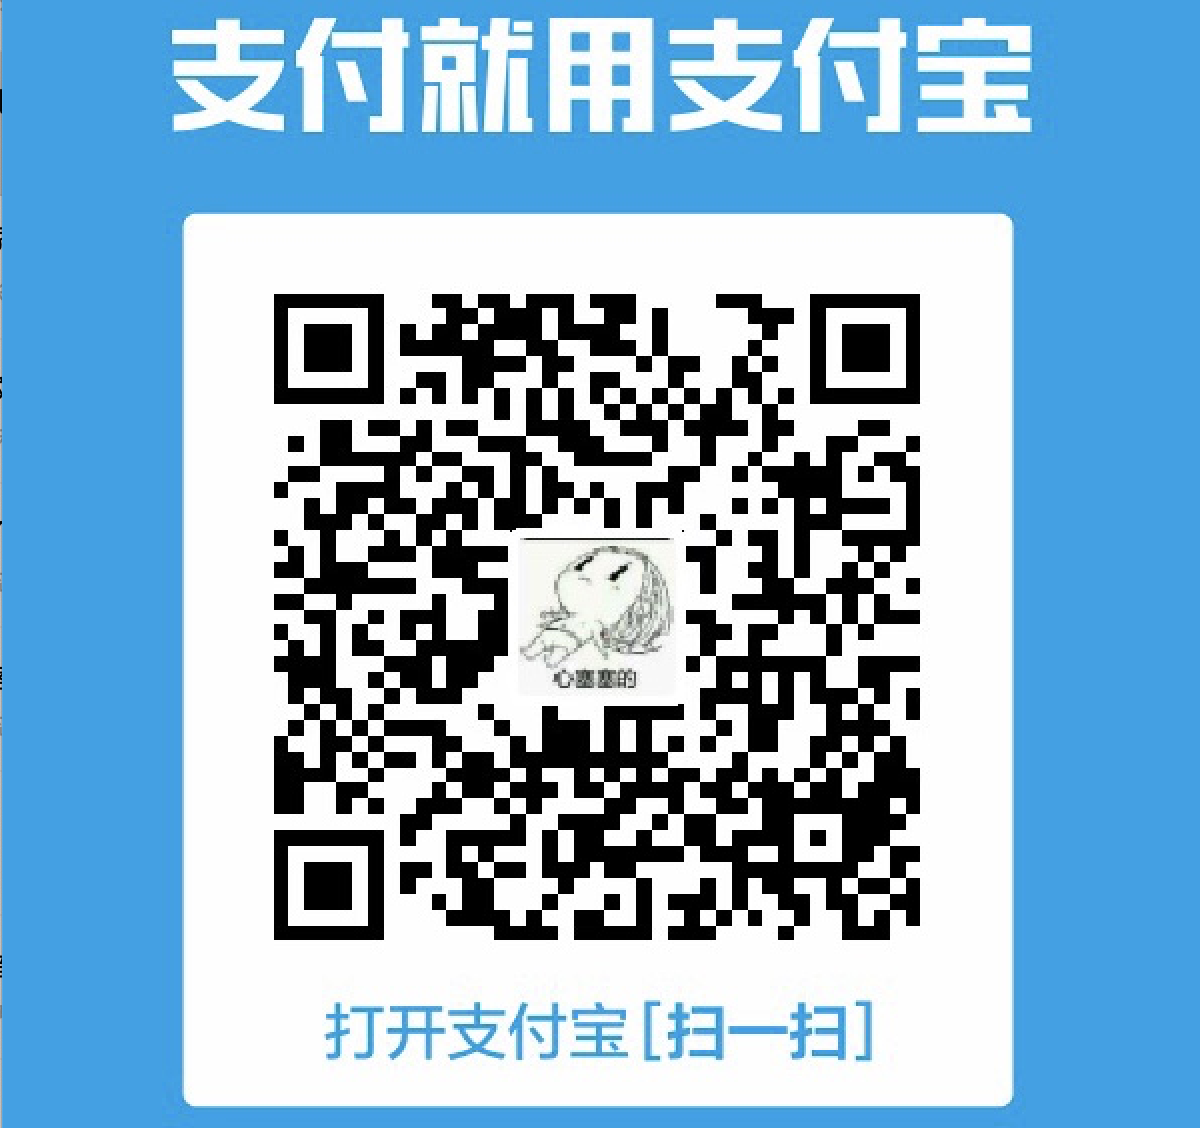
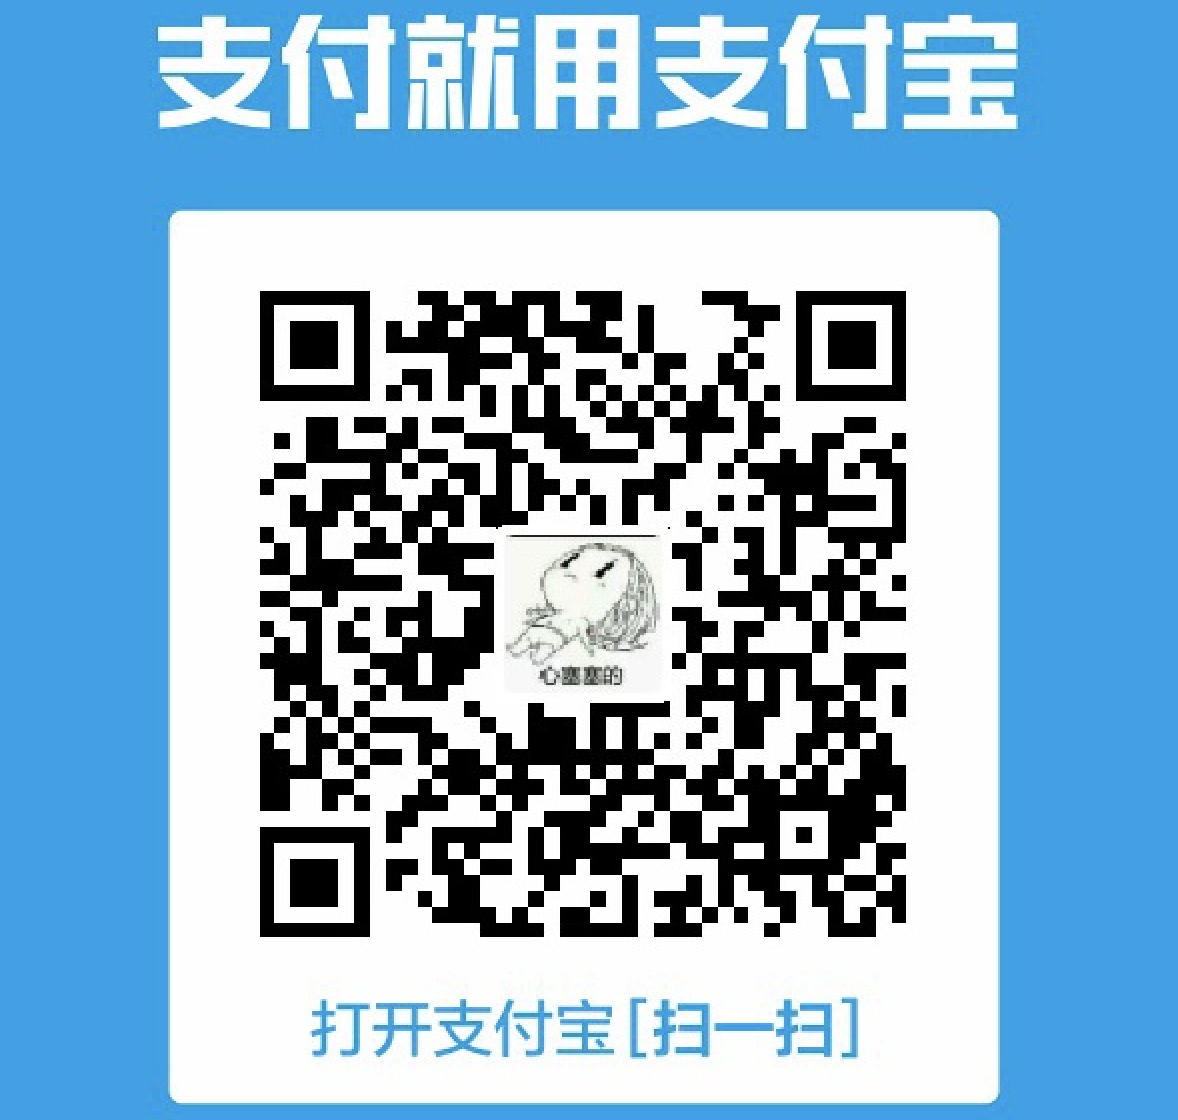
feat: 通用组件 :boom:

diff --git a/src/components/UranusPlayer/UranusPlayer.tsx b/src/components/UranusPlayer/UranusPlayer.tsx
@@ -1,0 +1,49 @@
+import APlayer from "aplayer";
+import "aplayer/dist/APlayer.min.css";
+import React, { FC, useEffect } from "react";
+import "./uranusPlayer.css";
+
+export const UranusPlayer: FC = (props) => {
+  useEffect(() => {
+    const ap = new APlayer({
+      container: document.getElementById('uranus-player'),
+      mini: false,
+      autoplay: false,
+      theme: '#FADFA3',
+      loop: 'all',
+      order: 'random',
+      preload: 'auto',
+      volume: 0.7,
+      mutex: true,
+      listFolded: false,
+      listMaxHeight: 90,
+      // lrcType: 3,
+      audio: [
+        {
+          name: 'name1',
+          artist: 'artist1',
+          url: 'https://shawnzeng.com/wp-content/uploads/2019/05/020e_5353_035c_5d6082e306d9614fa67846aed0ef4b13-online-audio-converter.com_.mp3',
+          cover: 'cover1.jpg',
+          // lrc: 'lrc1.lrc',
+          theme: '#ebd0c2'
+        },
+        {
+          name: 'name2',
+          artist: 'artist2',
+          url: 'https://shawnzeng.com/wp-content/uploads/2019/05/020e_5353_035c_5d6082e306d9614fa67846aed0ef4b13-online-audio-converter.com_.mp3',
+          cover: 'cover2.jpg',
+          // lrc: 'lrc2.lrc',
+          theme: '#46718b'
+        }
+      ]
+    });
+
+    return () => {
+      ap.destroy();
+    };
+  }, []);
+
+  return (
+    <div id="uranus-player" className="uranus-card" />
+  );
+};

diff --git a/src/components/Content/Content.tsx b/src/components/Content/Content.tsx
@@ -1,4 +1,4 @@
-import { Col, Row } from "antd";
+import { Affix, Col, Row } from "antd";
 import React, { FC, ReactElement } from "react";
 import "./content.css";
 
@@ -10,21 +10,23 @@ interface IContentProps {
 export const Content: FC<IContentProps> = (props) => {
   return (
     <Row className="uranus-content">
-      <Col xs={0} md={3} />
-      <Col xs={0} md={3}>
-        <div className="uranus-content-left">
-          { props.left }
-        </div>
+      <Col xs={0} md={2} />
+      <Col xs={0} md={4}>
+        <Affix offsetTop={55}>
+          <div className="uranus-content-left">
+            { props.left }
+          </div>
+        </Affix>
       </Col>
       <Col xs={24} md={12} className="uranus-content-center">
         { props.children }
       </Col>
-      <Col xs={0} md={3}>
+      <Col xs={0} md={4}>
         <div className="uranus-content-right">
           { props.right}
         </div>
       </Col>
-      <Col xs={0} md={3} />
+      <Col xs={0} md={2} />
     </Row>
   );
 };

diff --git a/src/components/Advertisement/advertisement.css b/src/components/Advertisement/advertisement.css
@@ -5,31 +5,17 @@
   margin-bottom: 8px;
 }
 
-.advertisement01-bg {
-  background-image: url(../../assets/images/provide.gif);
-  background-position: center center;
-  background-repeat: no-repeat;
-  background-attachment: scroll;
-  background-size: 100%;
-  height: 175px;
+.advertisement01 {
+  width: 100%;
+  border-radius: 4px;
 }
 
 .advertisement01-wechatpay {
-  background-image: url(../../assets/images/wechatpay.png);
-  background-position: center center;
-  background-repeat: no-repeat;
-  background-attachment: scroll;
-  background-size: 100%;
-  height: 200px;
-  margin-bottom: -11px;
+  margin-bottom: -6px;
+  width: 100%;
 }
 
 .advertisement01-alipay {
-  background-image: url(../../assets/images/alipay.png);
-  background-position: center center;
-  background-repeat: no-repeat;
-  background-attachment: scroll;
-  background-size: 100%;
-  height: 200px;
-  margin-bottom: -11px;
+  margin-bottom: -6px;
+  width: 100%;
 }

diff --git a/src/components/Advertisement/Advertisement01.tsx b/src/components/Advertisement/Advertisement01.tsx
@@ -5,10 +5,16 @@ import "./advertisement.css";
 export const Advertisement01: FC = (props) => {
   return (
     <div className="uranus-advertisement-card">
-      <div className="advertisement01-bg" />
+      <div>
+        <img src={require("../../assets/images/provide.gif")} alt="落魄前端，在线炒粉" className="advertisement01" />
+      </div>
       <Carousel autoplay>
-        <div className="advertisement01-wechatpay" />
-        <div className="advertisement01-alipay" />
+        <div>
+          <img src={require("../../assets/images/wechatpay.png")} alt="微信支付" className="advertisement01-wechatpay" />
+        </div>
+        <div>
+          <img src={require("../../assets/images/alipay.png")} alt="支付宝支付" className="advertisement01-alipay" />
+        </div>
       </Carousel>
     </div>
   );

diff --git a/src/components/Header/Header.tsx b/src/components/Header/Header.tsx
@@ -12,7 +12,7 @@ const UranusHeader = styled.div`
   z-index: 999;
   width: 100%;
   background: 0 0;
-  background-image: linear-gradient(rgba(15,25,50,.3) 0,rgba(15,25,50,.3) 100%);
+  background-image: linear-gradient(rgba(15,25,50,.5) 0,rgba(15,25,50,.5) 100%);
   box-shadow: 0 1px 3px rgba(26,26,26,.1);
   .ant-menu-horizontal {
     border-bottom: none;
@@ -20,7 +20,6 @@ const UranusHeader = styled.div`
   .ant-menu {
     background: 0 0;
     color: #fff;
-    background-image: linear-gradient(rgba(15,25,50,.3) 0,rgba(15,25,50,.3) 100%);
   }
 `;
 
@@ -37,7 +36,6 @@ const UranusHeaderSearch = styled.div`
   margin: 8px 0 8px 8px;
   .ant-input-affix-wrapper {
     background: 0 0;
-    background-image: linear-gradient(rgba(15,25,50,.3) 0,rgba(15,25,50,.3) 100%);
   }
   .ant-input {
     background: 0 0;

diff --git a/src/components/UranusMotto/UranusMotto.tsx b/src/components/UranusMotto/UranusMotto.tsx
@@ -1,0 +1,19 @@
+import React, { FC } from "react";
+import "../components.css";
+import "./uranusMotto.css";
+
+export const UranusMotto: FC = (props) => {
+  return (
+    <div className="uranus-card">
+      <div className="uranus-motto">
+        <p className="uranus-motto-item">楼道角落里阳光每天盛开</p>
+        <p className="uranus-motto-item">你很久前也在</p>
+        <p className="uranus-motto-item">很久前的花肥肥地开在窗外</p>
+        <p className="uranus-motto-item">你很久前也毛茸茸地在窗里开</p>
+        <p className="uranus-motto-item">它们为什么能长盛不衰</p>
+        <p className="uranus-motto-item">我们为什么屡战屡败</p>
+        <p className="uranus-motto-item">——冯唐《记梦》</p>
+      </div>
+    </div>
+  );
+};

diff --git a/src/App.tsx b/src/App.tsx
@@ -6,6 +6,9 @@ import { Content } from "./components/Content";
 import { Header } from "./components/Header";
 import { SkinContainer } from "./components/SkinContainer";
 import { UranusAvatar } from './components/UranusAvatar';
+import { UranusFooter } from './components/UranusFooter';
+import { UranusMotto } from './components/UranusMotto';
+import { UranusPlayer } from './components/UranusPlayer';
 
 function App() {
   return (
@@ -19,10 +22,16 @@ function App() {
             <Advertisement01 />
           </>
         )}
-        right={<span>2</span>}
+        right={(
+          <>
+            <UranusMotto />
+            <UranusPlayer />
+          </>
+        )}
       >
         <ArticleList />
       </Content>
+      <UranusFooter />
     </div>
   );
 }

diff --git a/src/components/UranusFooter/UranusFooter.tsx b/src/components/UranusFooter/UranusFooter.tsx
@@ -1,0 +1,14 @@
+import React, { FC } from "react";
+import "./uranusFooter.css";
+
+export const UranusFooter: FC = (props) => {
+  return (
+    <div className="uranus-footer">
+      <span className="uranus-footer-item">关于吼吼</span>
+      <span className="uranus-footer-item">意见反馈</span>
+      <span className="uranus-footer-item">帮助中心</span>
+      <span className="uranus-footer-item">©3020 Houhou </span>
+      <span className="uranus-footer-item">京公网安备11000002000001号</span>
+    </div>
+  );
+};

diff --git a/src/components/UranusFooter/uranusFooter.css b/src/components/UranusFooter/uranusFooter.css
@@ -1,0 +1,18 @@
+.uranus-footer {
+  width: 100%;
+  z-index: 302;
+  height: 40px;
+  overflow: hidden;
+  color: #999;
+  zoom: 1;
+  margin: 0;
+  background-color: #000;
+  text-align: center;
+  line-height: 40px;
+}
+
+.uranus-footer-item {
+  margin-left: 10px;
+  margin-right: 10px;
+  font: 12px arial;
+}

diff --git a/src/components/Content/content.css b/src/components/Content/content.css
@@ -3,9 +3,6 @@
 }
 
 .uranus-content-left {
-  display: flex;
-  flex-direction: column;
-  align-items: flex-start;
   margin-right: 8px;
 }
 
@@ -14,8 +11,5 @@
 }
 
 .uranus-content-right {
-  display: flex;
-  flex-direction: column;
-  align-items: flex-start;
   margin-left: 8px;
 }

diff --git a/src/components/ArticleList/ArticleList.tsx b/src/components/ArticleList/ArticleList.tsx
@@ -3,7 +3,7 @@ import { Avatar, List } from "antd";
 import React, { FC } from "react";
 
 export const ArticleList: FC = (props) => {
-  const listData = [];
+  const listData: any[] = [];
 
   for (let i = 0; i < 23; i++) {
     listData.push({

diff --git a/src/components/UranusMotto/uranusMotto.css b/src/components/UranusMotto/uranusMotto.css
@@ -1,0 +1,9 @@
+.uranus-motto {
+  padding: 12px 16px;
+}
+
+.uranus-motto-item {
+  padding: 0;
+  margin-bottom: 5px;
+  font: 12px arial;
+}
